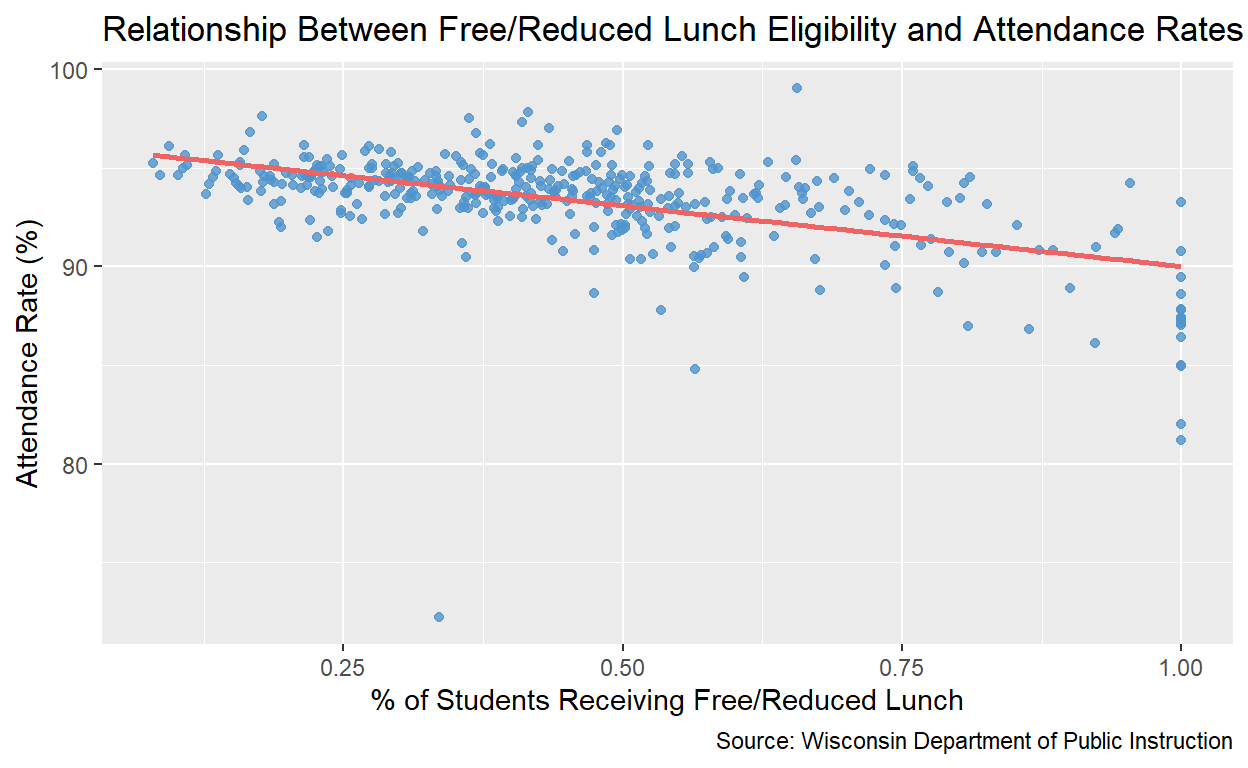
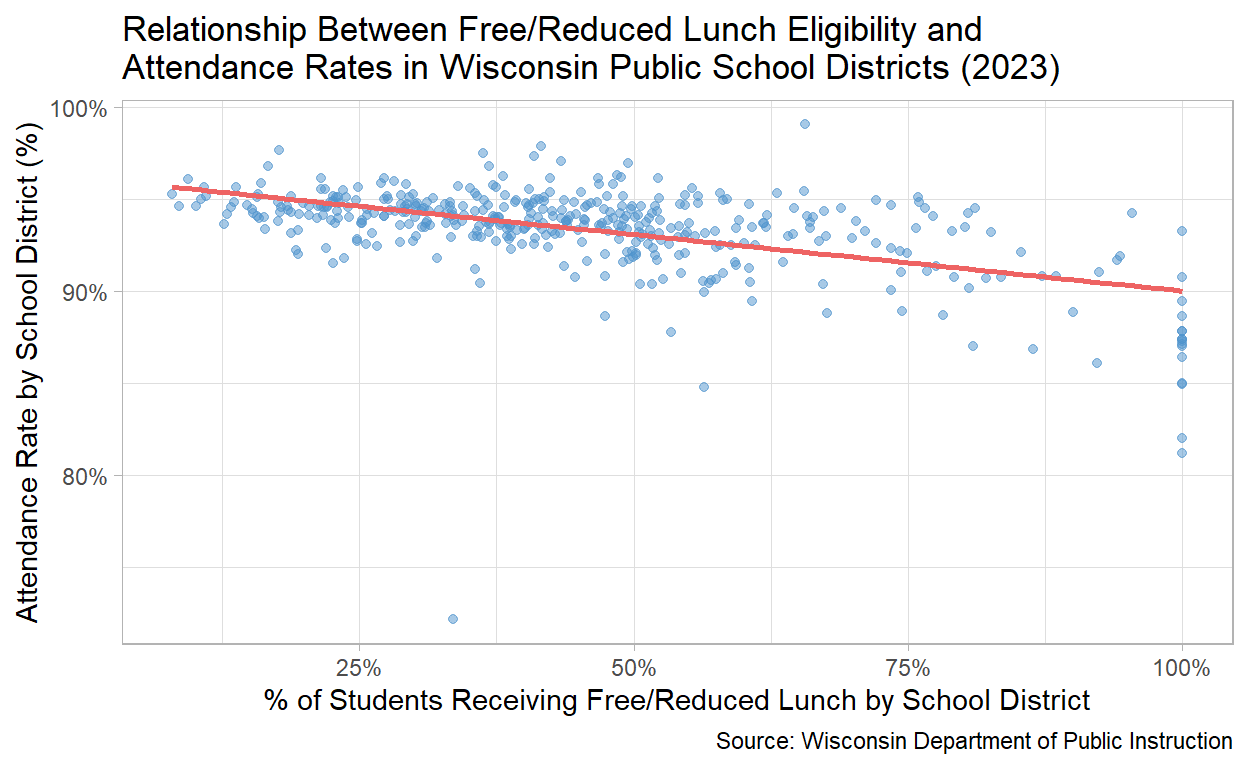
Updated milestone 3

diff --git a/index.html b/index.html
@@ -1585,12 +1585,15 @@ code span.wa { color: #5e5e5e; font-style: italic; } /* Warning */
 <div class="sourceCode">
 <pre class="sourceCode r"><code class="sourceCode r"><span><span class='fu'><a href='https://ggplot2.tidyverse.org/reference/ggplot.html'>ggplot</a></span><span class='op'>(</span><span class='va'>combined_all</span>, <span class='fu'><a href='https://ggplot2.tidyverse.org/reference/aes.html'>aes</a></span><span class='op'>(</span>x <span class='op'>=</span> <span class='va'>`% Free and Reduced`</span>, </span>
 <span>                         y <span class='op'>=</span> <span class='va'>ATTENDANCE_RATE</span><span class='op'>)</span><span class='op'>)</span> <span class='op'>+</span></span>
-<span>  <span class='fu'><a href='https://ggplot2.tidyverse.org/reference/geom_point.html'>geom_point</a></span><span class='op'>(</span>alpha <span class='op'>=</span> <span class='fl'>0.8</span>, color <span class='op'>=</span> <span class='st'>"steelblue3"</span><span class='op'>)</span> <span class='op'>+</span>  </span>
+<span>  <span class='fu'><a href='https://ggplot2.tidyverse.org/reference/geom_point.html'>geom_point</a></span><span class='op'>(</span>alpha <span class='op'>=</span> <span class='fl'>0.5</span>, color <span class='op'>=</span> <span class='st'>"steelblue3"</span><span class='op'>)</span> <span class='op'>+</span>  </span>
 <span>  <span class='fu'><a href='https://ggplot2.tidyverse.org/reference/geom_smooth.html'>geom_smooth</a></span><span class='op'>(</span>method <span class='op'>=</span> <span class='st'>"lm"</span>, se <span class='op'>=</span> <span class='cn'>FALSE</span>, color <span class='op'>=</span> <span class='st'>"indianred2"</span><span class='op'>)</span> <span class='op'>+</span></span>
-<span>  <span class='fu'><a href='https://ggplot2.tidyverse.org/reference/labs.html'>labs</a></span><span class='op'>(</span>title <span class='op'>=</span> <span class='st'>"Relationship Between Free/Reduced Lunch Eligibility and Attendance Rates"</span>,</span>
-<span>       x <span class='op'>=</span> <span class='st'>"% of Students Receiving Free/Reduced Lunch"</span>,</span>
-<span>       y <span class='op'>=</span> <span class='st'>"Attendance Rate (%)"</span>,</span>
-<span>       caption <span class='op'>=</span> <span class='st'>"Source: Wisconsin Department of Public Instruction"</span><span class='op'>)</span></span></code></pre>
+<span>  <span class='fu'><a href='https://ggplot2.tidyverse.org/reference/labs.html'>labs</a></span><span class='op'>(</span>title <span class='op'>=</span> <span class='st'>"Relationship Between Free/Reduced Lunch Eligibility and\nAttendance Rates in Wisconsin Public School Districts (2023)"</span>,</span>
+<span>       x <span class='op'>=</span> <span class='st'>"% of Students Receiving Free/Reduced Lunch by School District"</span>,</span>
+<span>       y <span class='op'>=</span> <span class='st'>"Attendance Rate by School District (%)"</span>,</span>
+<span>       caption <span class='op'>=</span> <span class='st'>"Source: Wisconsin Department of Public Instruction"</span><span class='op'>)</span> <span class='op'>+</span></span>
+<span>  <span class='fu'><a href='https://ggplot2.tidyverse.org/reference/scale_continuous.html'>scale_x_continuous</a></span><span class='op'>(</span>labels <span class='op'>=</span> <span class='fu'>scales</span><span class='fu'>::</span><span class='va'><a href='https://scales.r-lib.org/reference/percent_format.html'>percent</a></span><span class='op'>)</span> <span class='op'>+</span> </span>
+<span>  <span class='fu'><a href='https://ggplot2.tidyverse.org/reference/scale_continuous.html'>scale_y_continuous</a></span><span class='op'>(</span>labels <span class='op'>=</span> <span class='fu'>scales</span><span class='fu'>::</span><span class='fu'><a href='https://scales.r-lib.org/reference/label_percent.html'>label_percent</a></span><span class='op'>(</span>scale <span class='op'>=</span> <span class='fl'>1</span><span class='op'>)</span><span class='op'>)</span> <span class='op'>+</span> </span>
+<span>  <span class='fu'><a href='https://ggplot2.tidyverse.org/reference/ggtheme.html'>theme_light</a></span><span class='op'>(</span><span class='op'>)</span></span></code></pre>
 </div>
 <p><img src="index_files/figure-html5/unnamed-chunk-5-1.png" width="624" /></p>
 </div>
